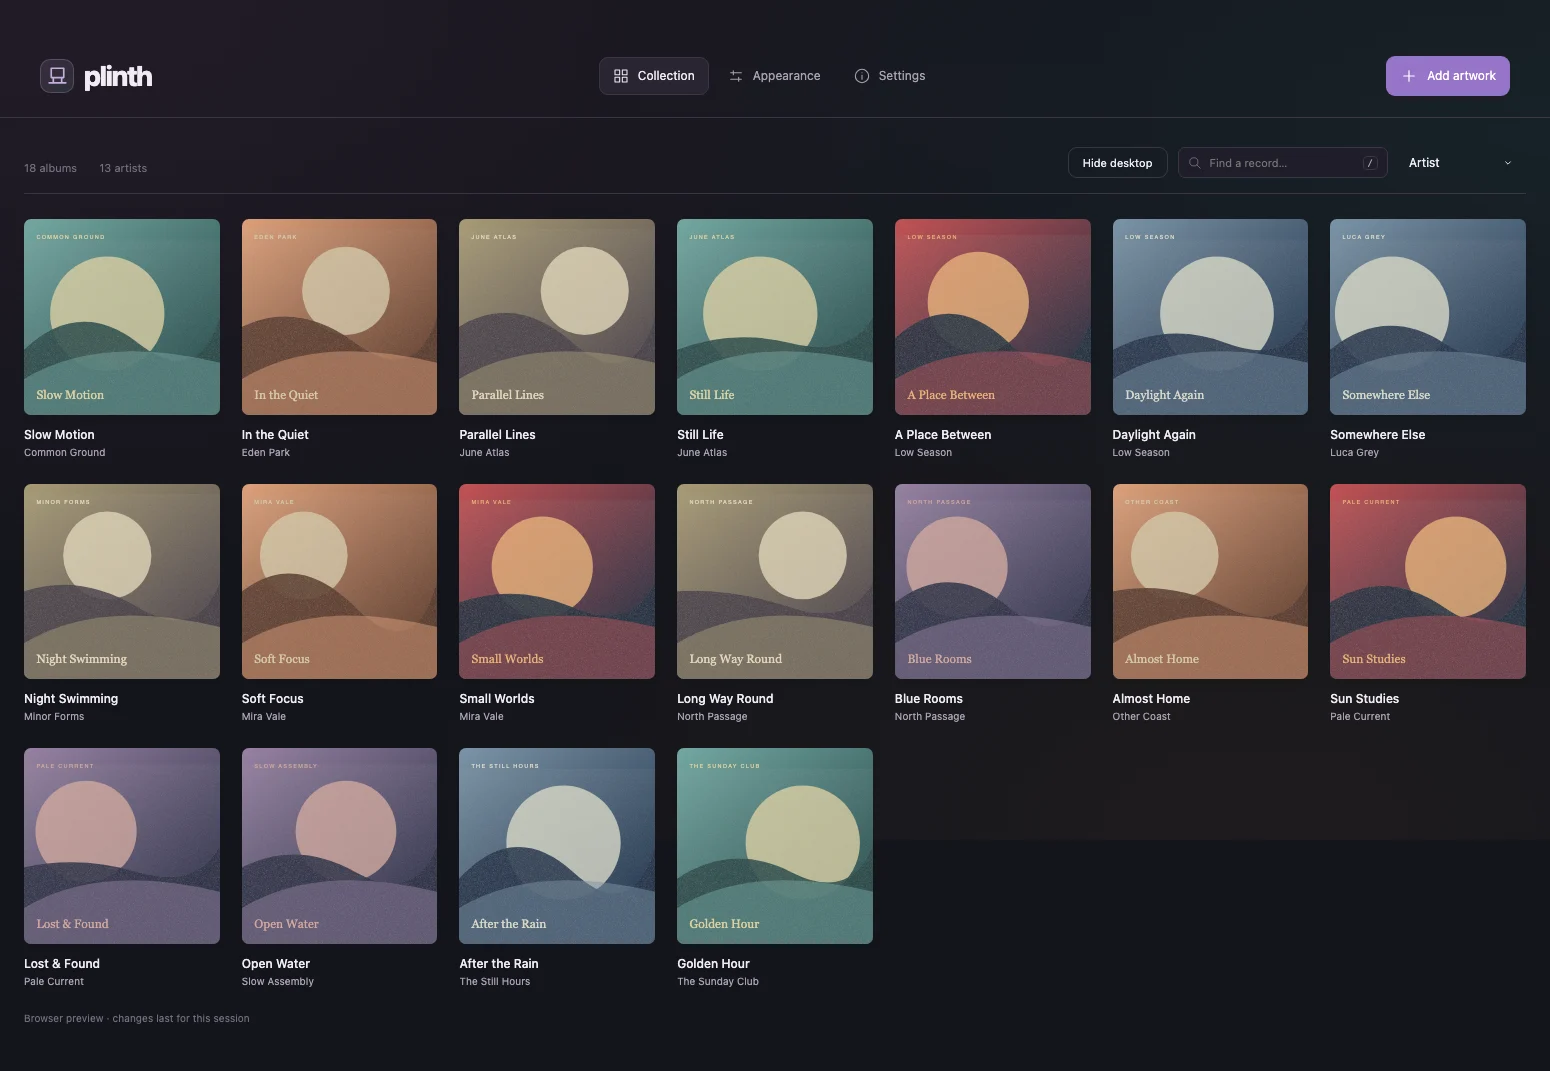
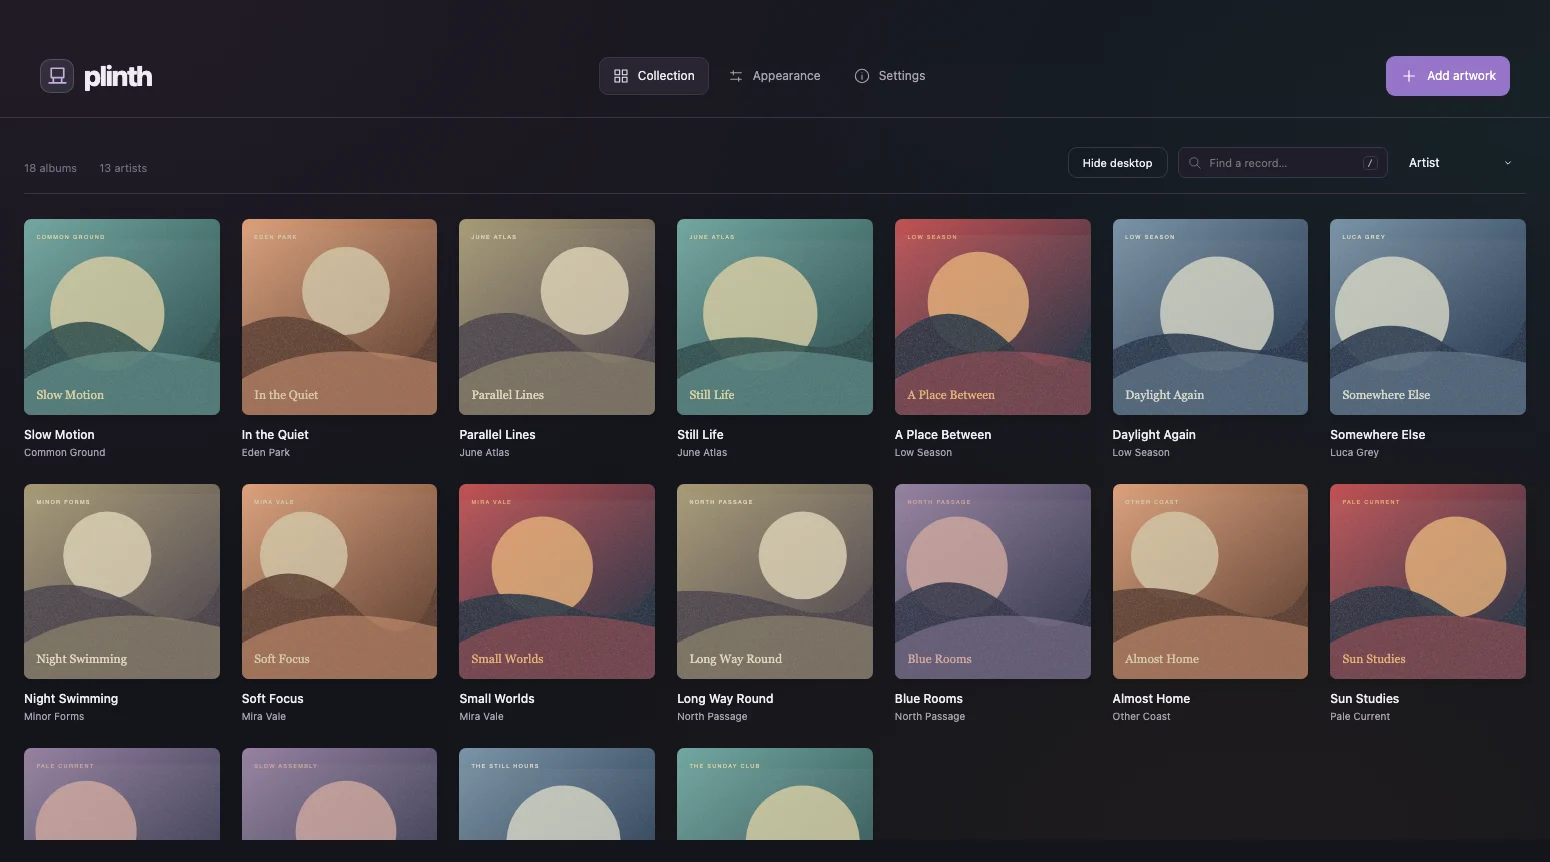
Disable all scrolling in the Collection album list

diff --git a/tests/app.spec.ts b/tests/app.spec.ts
@@ -104,6 +104,9 @@ test('desktop rows have equal margins, center incomplete rows, and cannot scroll
   const surface=page.locator('.desktop-surface')
   await expect(surface).toHaveCSS('overflow','clip')
   await page.mouse.move(width/2,100);await page.mouse.wheel(0,600)
+  await page.keyboard.press('PageDown');await page.keyboard.press('End')
+  await page.locator('.desktop-cover').last().evaluate(el=>el.focus())
+  await page.evaluate(()=>window.scrollTo(0,600))
   await surface.evaluate(el=>el.scrollTo(0,600))
   expect(await surface.evaluate(el=>el.scrollTop)).toBe(0)
   expect(await page.evaluate(()=>window.scrollY)).toBe(0)
@@ -117,4 +120,30 @@ test('desktop rows have equal margins, center incomplete rows, and cannot scroll
  })
  expect(rows.map(row=>row.count)).toEqual([7,7,4])
  for(const row of rows)expect(row.center).toBeCloseTo(rows[0].center,1)
+})
+
+test('Collection blocks wheel, keyboard, focus and programmatic scrolling',async({page})=>{
+ await page.setViewportSize({width:800,height:500})
+ await page.goto('/?demo=1')
+ await expect(page.locator('.album-card')).toHaveCount(18)
+ const first=page.locator('.album-card').first()
+ const top=await first.evaluate(el=>el.getBoundingClientRect().top)
+ await first.hover();await page.mouse.wheel(0,1200)
+ await page.keyboard.press('PageDown');await page.keyboard.press('End')
+ await page.locator('.album-card button').last().evaluate(el=>el.focus())
+ await page.evaluate(()=>{window.scrollTo(0,1200);document.querySelector('.app-shell')?.scrollTo(0,1200)})
+ expect(await page.evaluate(()=>window.scrollY)).toBe(0)
+ expect(await page.locator('.app-shell').evaluate(el=>el.scrollTop)).toBe(0)
+ expect(await first.evaluate(el=>el.getBoundingClientRect().top)).toBe(top)
+ // Records outside the fixed view can still be found using search.
+ await page.getByRole('searchbox').fill('Soft Focus')
+ await expect(page.locator('.album-card')).toHaveCount(1)
+ await expect(page.getByRole('button',{name:'Edit Soft Focus',exact:true})).toBeInViewport()
+ await page.getByRole('button',{name:'Appearance',exact:true}).click()
+ await expect(page.locator('html')).not.toHaveClass(/collection-document/)
+ await page.evaluate(()=>window.scrollTo(0,1200))
+ expect(await page.evaluate(()=>window.scrollY)).toBeGreaterThan(0)
+ await page.getByRole('button',{name:'Collection',exact:true}).click()
+ await expect(page.locator('html')).toHaveClass(/collection-document/)
+ expect(await page.evaluate(()=>window.scrollY)).toBe(0)
 })

diff --git a/src/app.css b/src/app.css
@@ -26,3 +26,6 @@ dialog{width:min(510px,calc(100vw - 40px));padding:26px;border:1px solid var(--l
 .sort-picker{position:relative}.sort-trigger{font-size:12px;min-width:128px;justify-content:space-between;border-color:transparent;padding:8px 10px}.sort-trigger svg{width:14px;height:14px}.sort-menu{position:absolute;z-index:30;right:0;top:calc(100% + 7px);width:175px;background:var(--paper-strong);border:1px solid var(--line);border-radius:9px;box-shadow:0 10px 30px #0004;padding:5px}.sort-menu button{width:100%;border:0;justify-content:space-between;border-radius:5px;font-size:12px;padding:10px}.sort-menu button[aria-checked=true]{color:var(--accent)}.sort-menu button:hover{background:var(--paper)}.sort-menu button svg{width:14px;height:14px}@media(max-width:760px){.toolbar-right{flex-wrap:wrap;justify-content:flex-end}.desktop-toggle{min-width:90px}.sort-trigger{min-width:105px}}
 
 .quit-actions{flex-wrap:wrap}.quit-actions kbd{color:inherit;font-size:10px;white-space:nowrap}.quit-actions .primary kbd{border-color:#ffffff55}
+
+/* Album lists stay fixed; overflow is clipped rather than scrollable. */
+.collection-document,.collection-document body{height:100%;overflow:clip;overscroll-behavior:none}.collection-document body{position:fixed;inset:0}.collection-document .app-shell{height:100dvh;overflow:clip}

diff --git a/src/App.svelte b/src/App.svelte
@@ -52,7 +52,7 @@
  $: enabled=library.albums.filter(a=>a.enabled)
  $: filtered=ordered(library.albums.filter(a=>`${a.title} ${a.artist}`.toLowerCase().includes(query.toLowerCase())),settings.sort,settings.shuffleSeed)
  $: artists=new Set(library.albums.map(a=>a.artist).filter(Boolean)).size
- $: if(typeof document!=='undefined') {document.documentElement.dataset.theme=settings.theme==='system'?(mediaDark?'dark':'light'):settings.theme;document.documentElement.classList.toggle('desktop-document',desktop)}
+ $: if(typeof document!=='undefined') {document.documentElement.dataset.theme=settings.theme==='system'?(mediaDark?'dark':'light'):settings.theme;document.documentElement.classList.toggle('desktop-document',desktop);document.documentElement.classList.toggle('collection-document',!desktop&&page==='collection')}
  $: if(edit && modal && !modal.open) modal.showModal()
  function message(text:string) {notice=text;setTimeout(()=>{if(notice===text)notice=''},6000)}
  function persist() {

diff --git a/README.md b/README.md
@@ -29,6 +29,8 @@ Launch `Plinth.app`, choose **Add artwork**, or drop image files into the librar
 
 Missing albums show a native macOS alert. The first Music action may ask for macOS Automation permission. Library mode searches album titles in your local Music library; link mode opens the URL you saved. No Apple Music API credentials are needed.
 
+The Collection page and desktop album list do not scroll. Albums beyond the visible area are clipped; use Collection search to find a specific record. Appearance controls and album editors remain scrollable when needed.
+
 The desktop is a transparent native window above the wallpaper and desktop icons, below ordinary windows. It receives clicks and does not scroll. Incomplete rows are centered; use the Columns setting to fit more covers on screen. Covers enlarge without activating Plinth; this does not draw over your foreground apps. Restart Plinth after changing monitor arrangements. Add Plinth in **System Settings → General → Login Items** if you want it to start at login.
 
 Option-Q and Option-W move to the previous or next page, wrapping at either end. Window size is remembered when you close or quit; new installations open at 1550 × 840 points.
